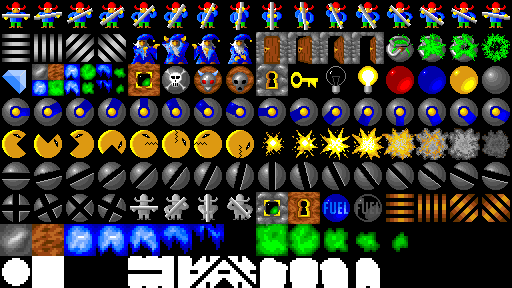
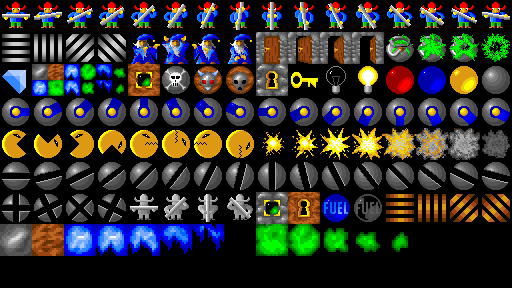
removed unneeded mask element and graphic definitions from MM engine
Instead, the already existing element mask array (which was added
earlier to prevent reading pixels from bitmaps) is accessed now by
directly using the mask array positions (instead of using dummy mask
element and graphics definitions only for mapping to the mask array
positions).

Changed region(s): [[0.25, 0.875, 0.75, 1.0], [0.0, 0.875, 0.125, 1.0]]

diff --git a/src/main.h b/src/main.h
@@ -2086,35 +2086,22 @@
 #define EL_MM_LIGHTBALL_RED		(EL_FIRST_DUMMY + 21)
 #define EL_MM_LIGHTBALL_BLUE		(EL_FIRST_DUMMY + 22)
 #define EL_MM_LIGHTBALL_YELLOW		(EL_FIRST_DUMMY + 23)
-#define EL_MM_MASK_MCDUFFIN_RIGHT	(EL_FIRST_DUMMY + 24)
-#define EL_MM_MASK_MCDUFFIN_UP		(EL_FIRST_DUMMY + 25)
-#define EL_MM_MASK_MCDUFFIN_LEFT	(EL_FIRST_DUMMY + 26)
-#define EL_MM_MASK_MCDUFFIN_DOWN	(EL_FIRST_DUMMY + 27)
-#define EL_MM_MASK_GRID_1		(EL_FIRST_DUMMY + 28)
-#define EL_MM_MASK_GRID_2		(EL_FIRST_DUMMY + 29)
-#define EL_MM_MASK_GRID_3		(EL_FIRST_DUMMY + 30)
-#define EL_MM_MASK_GRID_4		(EL_FIRST_DUMMY + 31)
-#define EL_MM_MASK_RECTANGLE		(EL_FIRST_DUMMY + 32)
-#define EL_MM_MASK_CIRCLE		(EL_FIRST_DUMMY + 33)
-#define EL_DEFAULT			(EL_FIRST_DUMMY + 34)
-#define EL_BD_DEFAULT			(EL_FIRST_DUMMY + 35)
-#define EL_SP_DEFAULT			(EL_FIRST_DUMMY + 36)
-#define EL_SB_DEFAULT			(EL_FIRST_DUMMY + 37)
-#define EL_MM_DEFAULT			(EL_FIRST_DUMMY + 38)
-#define EL_GRAPHIC_1			(EL_FIRST_DUMMY + 39)
-#define EL_GRAPHIC_2			(EL_FIRST_DUMMY + 40)
-#define EL_GRAPHIC_3			(EL_FIRST_DUMMY + 41)
-#define EL_GRAPHIC_4			(EL_FIRST_DUMMY + 42)
-#define EL_GRAPHIC_5			(EL_FIRST_DUMMY + 43)
-#define EL_GRAPHIC_6			(EL_FIRST_DUMMY + 44)
-#define EL_GRAPHIC_7			(EL_FIRST_DUMMY + 45)
-#define EL_GRAPHIC_8			(EL_FIRST_DUMMY + 46)
-
-#define EL_MM_DUMMY_START		EL_MM_MASK_MCDUFFIN_RIGHT
-#define EL_MM_DUMMY_END			EL_MM_MASK_CIRCLE
+#define EL_DEFAULT			(EL_FIRST_DUMMY + 24)
+#define EL_BD_DEFAULT			(EL_FIRST_DUMMY + 25)
+#define EL_SP_DEFAULT			(EL_FIRST_DUMMY + 26)
+#define EL_SB_DEFAULT			(EL_FIRST_DUMMY + 27)
+#define EL_MM_DEFAULT			(EL_FIRST_DUMMY + 28)
+#define EL_GRAPHIC_1			(EL_FIRST_DUMMY + 29)
+#define EL_GRAPHIC_2			(EL_FIRST_DUMMY + 30)
+#define EL_GRAPHIC_3			(EL_FIRST_DUMMY + 31)
+#define EL_GRAPHIC_4			(EL_FIRST_DUMMY + 32)
+#define EL_GRAPHIC_5			(EL_FIRST_DUMMY + 33)
+#define EL_GRAPHIC_6			(EL_FIRST_DUMMY + 34)
+#define EL_GRAPHIC_7			(EL_FIRST_DUMMY + 35)
+#define EL_GRAPHIC_8			(EL_FIRST_DUMMY + 36)
 
 // internal elements (only used for internal purposes like copying)
-#define EL_FIRST_INTERNAL		(EL_FIRST_DUMMY + 47)
+#define EL_FIRST_INTERNAL		(EL_FIRST_DUMMY + 37)
 
 #define EL_INTERNAL_CLIPBOARD_CUSTOM	(EL_FIRST_INTERNAL + 0)
 #define EL_INTERNAL_CLIPBOARD_CHANGE	(EL_FIRST_INTERNAL + 1)

diff --git a/src/conf_gfx.c b/src/conf_gfx.c
@@ -5201,50 +5201,6 @@ struct ConfigInfo image_config[] =
   { "mm_pacman.eating.down.ypos",		"4"			},
   { "mm_pacman.eating.down.frames",		"1"			},
 
-  { "mm_mask_mcduffin.right",			"RocksMM.png"		},
-  { "mm_mask_mcduffin.right.xpos",		"8"			},
-  { "mm_mask_mcduffin.right.ypos",		"8"			},
-  { "mm_mask_mcduffin.right.frames",		"1"			},
-  { "mm_mask_mcduffin.up",			"RocksMM.png"		},
-  { "mm_mask_mcduffin.up.xpos",			"9"			},
-  { "mm_mask_mcduffin.up.ypos",			"8"			},
-  { "mm_mask_mcduffin.up.frames",		"1"			},
-  { "mm_mask_mcduffin.left",			"RocksMM.png"		},
-  { "mm_mask_mcduffin.left.xpos",		"10"			},
-  { "mm_mask_mcduffin.left.ypos",		"8"			},
-  { "mm_mask_mcduffin.left.frames",		"1"			},
-  { "mm_mask_mcduffin.down",			"RocksMM.png"		},
-  { "mm_mask_mcduffin.down.xpos",		"11"			},
-  { "mm_mask_mcduffin.down.ypos",		"8"			},
-  { "mm_mask_mcduffin.down.frames",		"1"			},
-
-  { "mm_mask_grid_1",				"RocksMM.png"		},
-  { "mm_mask_grid_1.xpos",			"4"			},
-  { "mm_mask_grid_1.ypos",			"8"			},
-  { "mm_mask_grid_1.frames",			"1"			},
-  { "mm_mask_grid_2",				"RocksMM.png"		},
-  { "mm_mask_grid_2.xpos",			"5"			},
-  { "mm_mask_grid_2.ypos",			"8"			},
-  { "mm_mask_grid_2.frames",			"1"			},
-  { "mm_mask_grid_3",				"RocksMM.png"		},
-  { "mm_mask_grid_3.xpos",			"6"			},
-  { "mm_mask_grid_3.ypos",			"8"			},
-  { "mm_mask_grid_3.frames",			"1"			},
-  { "mm_mask_grid_4",				"RocksMM.png"		},
-  { "mm_mask_grid_4.xpos",			"7"			},
-  { "mm_mask_grid_4.ypos",			"8"			},
-  { "mm_mask_grid_4.frames",			"1"			},
-
-  { "mm_mask_rectangle",			"RocksMM.png"		},
-  { "mm_mask_rectangle.xpos",			"1"			},
-  { "mm_mask_rectangle.ypos",			"8"			},
-  { "mm_mask_rectangle.frames",			"1"			},
-
-  { "mm_mask_circle",				"RocksMM.png"		},
-  { "mm_mask_circle.xpos",			"0"			},
-  { "mm_mask_circle.ypos",			"8"			},
-  { "mm_mask_circle.frames",			"1"			},
-
   { "[mm_default].exploding",			"RocksMM.png"		},
   { "[mm_default].exploding.xpos",		"8"			},
   { "[mm_default].exploding.ypos",		"4"			},

diff --git a/src/game_mm/mm_game.c b/src/game_mm/mm_game.c
@@ -116,8 +116,22 @@ static DelayCounter pacman_delay = { PACMAN_MOVE_DELAY };
 static DelayCounter energy_delay = { ENERGY_DELAY };
 static DelayCounter overload_delay = { 0 };
 
+// element mask positions for scanning pixels of MM elements
+#define MM_MASK_MCDUFFIN_RIGHT	0
+#define MM_MASK_MCDUFFIN_UP	1
+#define MM_MASK_MCDUFFIN_LEFT	2
+#define MM_MASK_MCDUFFIN_DOWN	3
+#define MM_MASK_GRID_1		4
+#define MM_MASK_GRID_2		5
+#define MM_MASK_GRID_3		6
+#define MM_MASK_GRID_4		7
+#define MM_MASK_RECTANGLE	8
+#define MM_MASK_CIRCLE		9
+
+#define NUM_MM_MASKS		10
+
 // element masks for scanning pixels of MM elements
-static const char mm_masks[10][16][16 + 1] =
+static const char mm_masks[NUM_MM_MASKS][16][16 + 1] =
 {
   {
     "                ",
@@ -813,13 +827,13 @@ static boolean StepBehind(void)
 static int getMaskFromElement(int element)
 {
   if (IS_GRID(element))
-    return IMG_MM_MASK_GRID_1 + get_element_phase(element);
+    return MM_MASK_GRID_1 + get_element_phase(element);
   else if (IS_MCDUFFIN(element))
-    return IMG_MM_MASK_MCDUFFIN_RIGHT + get_element_phase(element);
+    return MM_MASK_MCDUFFIN_RIGHT + get_element_phase(element);
   else if (IS_RECTANGLE(element) || IS_DF_GRID(element))
-    return IMG_MM_MASK_RECTANGLE;
+    return MM_MASK_RECTANGLE;
   else
-    return IMG_MM_MASK_CIRCLE;
+    return MM_MASK_CIRCLE;
 }
 
 static int ScanPixel(void)
@@ -873,7 +887,7 @@ static int ScanPixel(void)
 	}
 	else
 	{
-	  int pos = getMaskFromElement(element) - IMG_MM_MASK_MCDUFFIN_RIGHT;
+	  int pos = getMaskFromElement(element);
 
 	  pixel = (mm_masks[pos][dy / 2][dx / 2] == 'X' ? 1 : 0);
 	}

diff --git a/src/tools.c b/src/tools.c
@@ -8205,10 +8205,6 @@ int map_element_RND_to_MM(int element_rnd)
 	  element_rnd <= EL_MM_RUNTIME_END ?
 	  EL_MM_RUNTIME_START_NATIVE + element_rnd - EL_MM_RUNTIME_START :
 
-	  element_rnd >= EL_MM_DUMMY_START &&
-	  element_rnd <= EL_MM_DUMMY_END ?
-	  EL_MM_DUMMY_START_NATIVE + element_rnd - EL_MM_DUMMY_START :
-
 	  EL_MM_EMPTY_NATIVE);
 }
 
@@ -8233,10 +8229,6 @@ int map_element_MM_to_RND(int element_mm)
 	  element_mm >= EL_MM_RUNTIME_START_NATIVE &&
 	  element_mm <= EL_MM_RUNTIME_END_NATIVE ?
 	  EL_MM_RUNTIME_START + element_mm - EL_MM_RUNTIME_START_NATIVE :
-
-	  element_mm >= EL_MM_DUMMY_START_NATIVE &&
-	  element_mm <= EL_MM_DUMMY_END_NATIVE ?
-	  EL_MM_DUMMY_START + element_mm - EL_MM_DUMMY_START_NATIVE :
 
 	  EL_EMPTY);
 }

diff --git a/src/main.c b/src/main.c
@@ -7023,56 +7023,6 @@ struct ElementNameInfo element_name_info[MAX_NUM_ELEMENTS + 1] =
     "-"
   },
   {
-    "mm_mask_mcduffin.right",
-    "-",
-    "-"
-  },
-  {
-    "mm_mask_mcduffin.up",
-    "-",
-    "-"
-  },
-  {
-    "mm_mask_mcduffin.left",
-    "-",
-    "-"
-  },
-  {
-    "mm_mask_mcduffin.down",
-    "-",
-    "-"
-  },
-  {
-    "mm_mask_grid_1",
-    "-",
-    "-"
-  },
-  {
-    "mm_mask_grid_2",
-    "-",
-    "-"
-  },
-  {
-    "mm_mask_grid_3",
-    "-",
-    "-"
-  },
-  {
-    "mm_mask_grid_4",
-    "-",
-    "-"
-  },
-  {
-    "mm_mask_rectangle",
-    "-",
-    "-"
-  },
-  {
-    "mm_mask_circle",
-    "-",
-    "-"
-  },
-  {
     "[default]",
     "default",
     "-"

diff --git a/src/game_mm/mm_main.h b/src/game_mm/mm_main.h
@@ -662,18 +662,6 @@ extern int		num_element_info;
 #define EL_EXPLODING_OPAQUE	601
 #define EL_EXPLODING_TRANSP	602
 
-// dummy elements (never used as game elements, only used as graphics)
-#define EL_MM_MASK_MCDUFFIN_RIGHT	700
-#define EL_MM_MASK_MCDUFFIN_UP		701
-#define EL_MM_MASK_MCDUFFIN_LEFT	702
-#define EL_MM_MASK_MCDUFFIN_DOWN	703
-#define EL_MM_MASK_GRID_1		704
-#define EL_MM_MASK_GRID_2		705
-#define EL_MM_MASK_GRID_3		706
-#define EL_MM_MASK_GRID_4		707
-#define EL_MM_MASK_RECTANGE		708
-#define EL_MM_MASK_CIRCLE		709
-
 
 // game graphics:
 //	  0 -  191: graphics from "MirrorScreen"

diff --git a/src/game_mm/export.h b/src/game_mm/export.h
@@ -43,9 +43,6 @@
 #define EL_MM_RUNTIME_START_NATIVE	500
 #define EL_MM_RUNTIME_END_NATIVE	504
 
-#define EL_MM_DUMMY_START_NATIVE	700
-#define EL_MM_DUMMY_END_NATIVE		709
-
 // elements to be specially mapped
 #define EL_MM_EMPTY_NATIVE		0
 #define EL_DF_EMPTY_NATIVE		304
